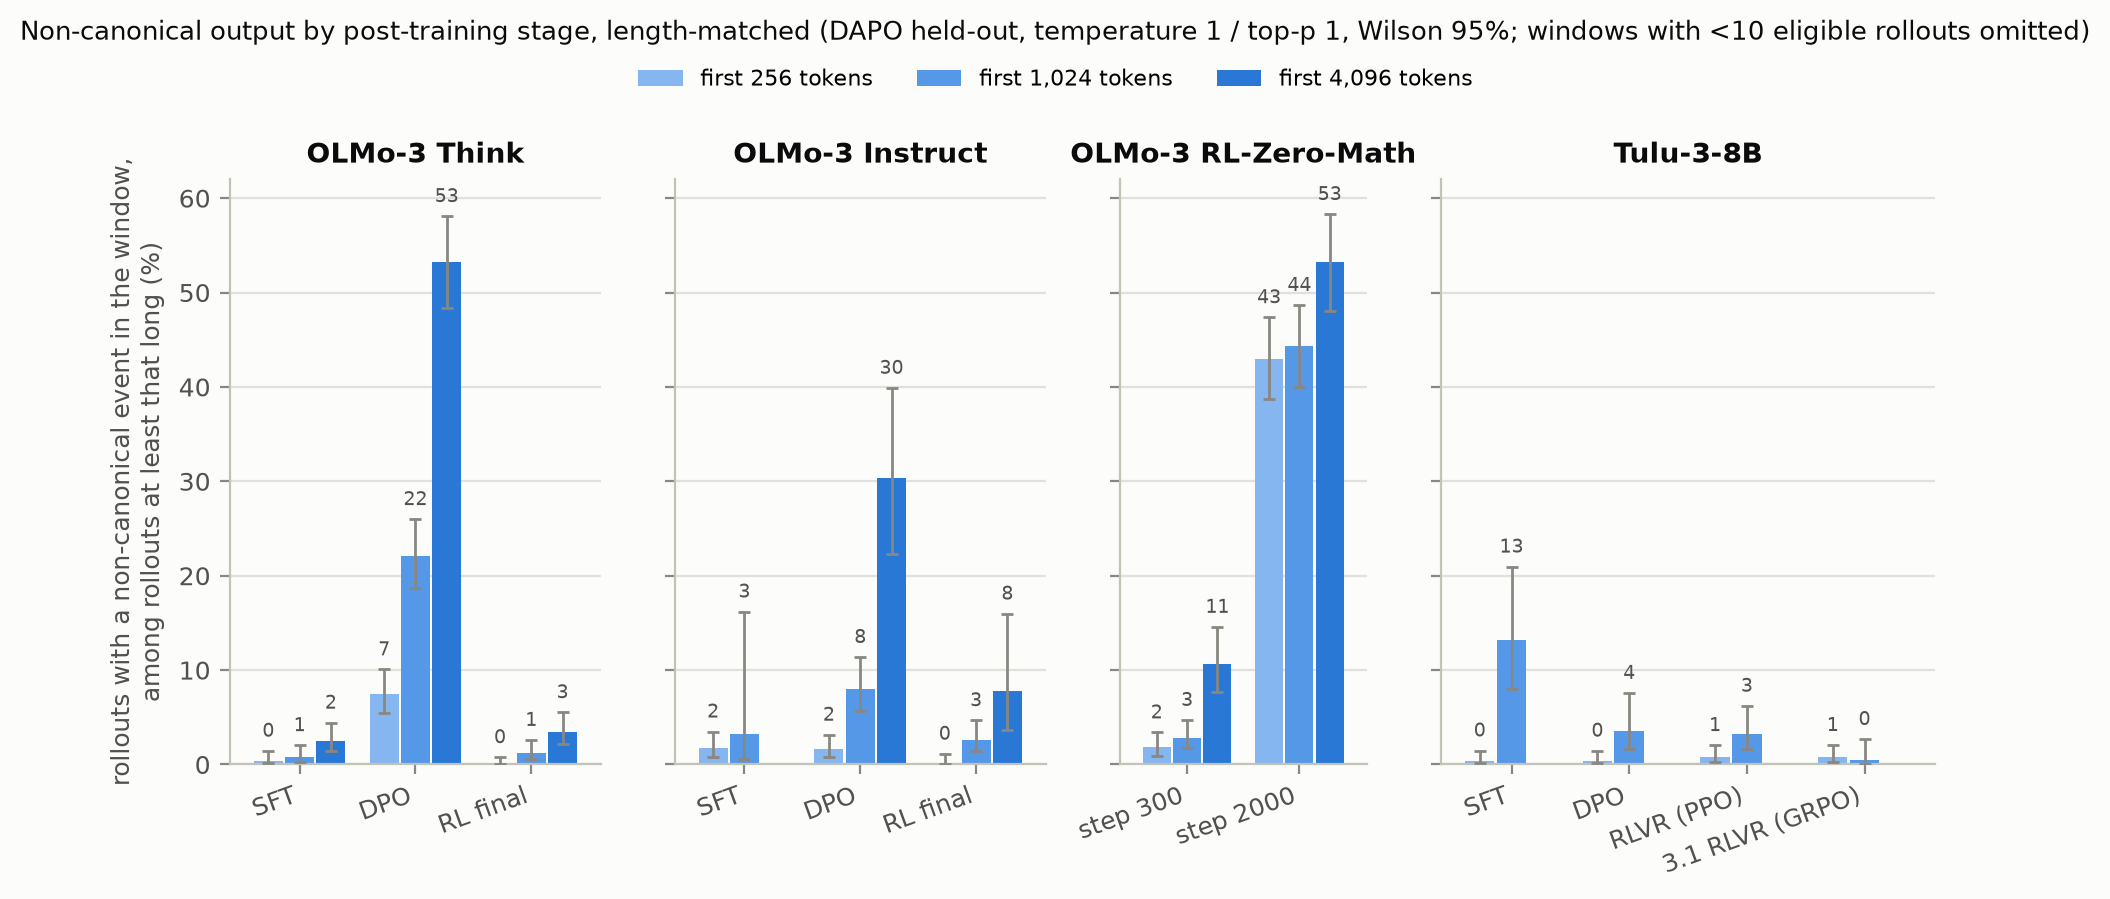
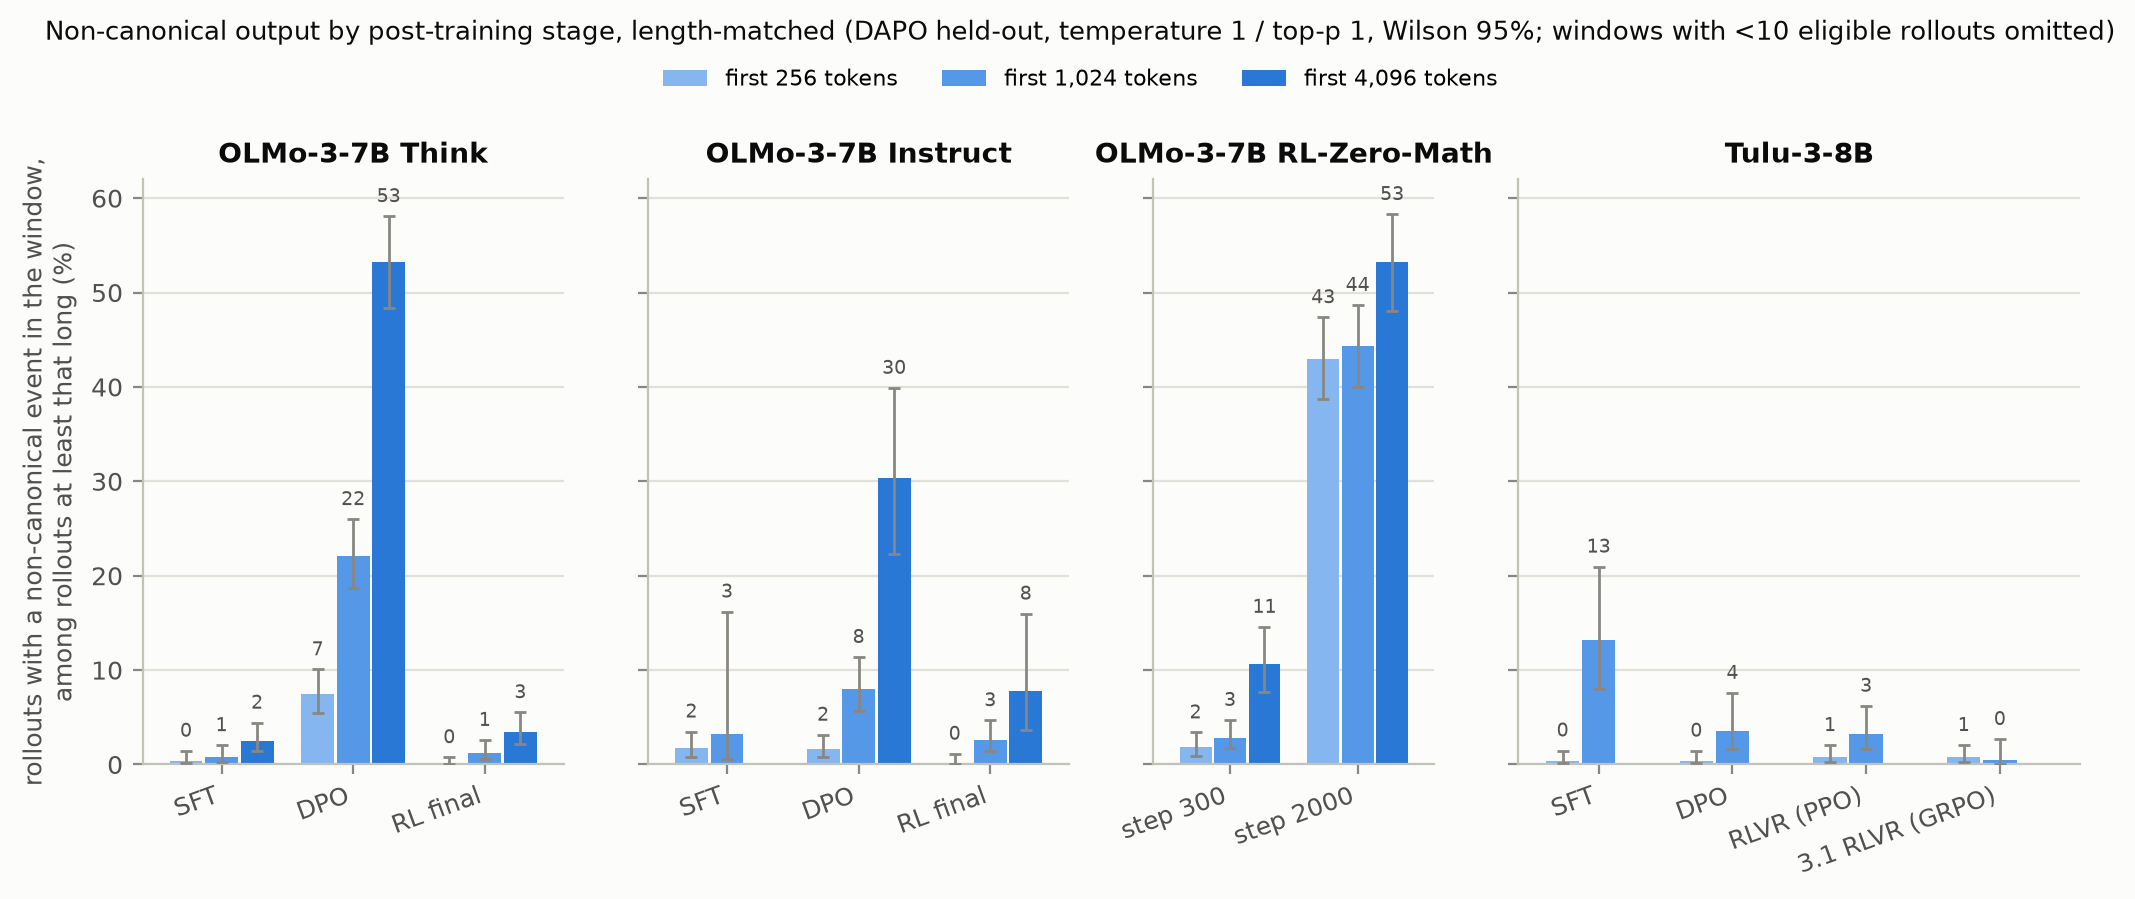
Model names: parameter count on every family (OLMo-3-7B Think / Instruct / RL-Zero-Math, Tulu-3-8B) in figures, examples and draft

diff --git a/scripts/figures.py b/scripts/figures.py
@@ -36,9 +36,9 @@ STAGE_COLOR = {"SFT": BLUE, "DPO": ORANGE, "RL final": AQUA, "RLVR (PPO)": AQUA,
 
 # (stage label, run holding the temperature-1 arm, run holding the recommended-settings arm)
 LADDERS = {
-    "OLMo-3 Think": [("SFT", "think-sft", None), ("DPO", "think-dpo", "think-dpo-recommended"), ("RL final", "think-main", "think-main-recommended")],
-    "OLMo-3 Instruct": [("SFT", "instruct-sft", "instruct-sft"), ("DPO", "instruct-dpo", "instruct-dpo"), ("RL final", "instruct-main", "instruct-main")],
-    "OLMo-3 RL-Zero-Math": [("step 300", "rlzero-math-step300", None), ("step 2000", "rlzero-math", None)],
+    "OLMo-3-7B Think": [("SFT", "think-sft", None), ("DPO", "think-dpo", "think-dpo-recommended"), ("RL final", "think-main", "think-main-recommended")],
+    "OLMo-3-7B Instruct": [("SFT", "instruct-sft", "instruct-sft"), ("DPO", "instruct-dpo", "instruct-dpo"), ("RL final", "instruct-main", "instruct-main")],
+    "OLMo-3-7B RL-Zero-Math": [("step 300", "rlzero-math-step300", None), ("step 2000", "rlzero-math", None)],
     "Tulu-3-8B": [("SFT", "tulu3-sft", "tulu3-sft"), ("DPO", "tulu3-dpo", "tulu3-dpo"), ("RLVR (PPO)", "tulu3-rlvr", "tulu3-rlvr"), ("3.1 RLVR (GRPO)", "tulu31-rlvr", "tulu31-rlvr")],
 }
 OLMO = {k: v for k, v in LADDERS.items() if k != "Tulu-3-8B"}
@@ -83,7 +83,7 @@ WINDOWS = [(256, "first 256 tokens"), (1024, "first 1,024 tokens"), (4096, "firs
 
 def fig1() -> None:
     widths = [len(v) for v in LADDERS.values()]
-    fig, axes = plt.subplots(1, 4, figsize=(11, 3.8), gridspec_kw={"width_ratios": widths}, sharey=True)
+    fig, axes = plt.subplots(1, 4, figsize=(12.5, 3.8), gridspec_kw={"width_ratios": widths}, sharey=True)
     DATA["fig1"] = {}
     for ax, (family, stages) in zip(axes, LADDERS.items()):
         xs = np.arange(len(stages))
@@ -189,7 +189,7 @@ def fig2() -> None:
     ax.set_ylabel("non-canonical events per million tokens")
     ax.set_ylim(0, 230)
     ax.legend(loc="upper left", ncol=2)
-    fig.suptitle("Olmo-3-7B-RL-Zero-Math over training (RL from the base model; DAPO held-out, temperature 1)", fontsize=10, color=INK, y=1.02)
+    fig.suptitle("OLMo-3-7B RL-Zero-Math over training (RL from the base model; DAPO held-out, temperature 1)", fontsize=10, color=INK, y=1.02)
     save(fig, "fig2_rlzero_steps.png")
 
 

diff --git a/scripts/random_examples.py b/scripts/random_examples.py
@@ -15,8 +15,8 @@ import json
 import random
 from pathlib import Path
 
-CELLS = [("OLMo-3 Think-DPO", "think-dpo"), ("OLMo-3 Think RL final", "think-main"),
-         ("OLMo-3 RL-Zero-Math step 2000", "rlzero-math"), ("OLMo-3 Instruct-DPO", "instruct-dpo")]
+CELLS = [("OLMo-3-7B Think-DPO", "think-dpo"), ("OLMo-3-7B Think RL final", "think-main"),
+         ("OLMo-3-7B RL-Zero-Math step 2000", "rlzero-math"), ("OLMo-3-7B Instruct-DPO", "instruct-dpo")]
 
 
 def show(tokens: list[str] | None) -> str:

diff --git a/WRITEUP_DRAFT.md b/WRITEUP_DRAFT.md
@@ -6,9 +6,9 @@
 
 A language model can emit a token sequence whose decoded text re-tokenizes differently: `light` + `house` where the tokenizer would produce `l` + `ighthouse`. These non-canonical tokens are invisible in a transcript stored as text, so a probe or logit lens run on the re-tokenized text is looking at positions the model never computed, and non-canonical inputs are a known jailbreak vector. I wanted to know how often modern models do this on an ordinary task, which post-training stage moves the rate, and how far the computation diverges afterwards.
 
-I sampled 500 held-out DAPO math problems (and AIME 2024/2025 for three checkpoints) from every released post-training checkpoint of OLMo-3-7B Think and Instruct (SFT, DPO, RL), from six RL steps of OLMo-3-7B-RL-Zero-Math (RL directly on the base model), and from the Tulu-3-8B ladder as a second tokenizer: 16 checkpoints, 75 million generated tokens, emitted ids kept and checked by `encode(decode(ids)) != ids`. The statistic is the fraction of rollouts with at least one non-canonical event (a span or an unfinished multi-byte character).
+I sampled 500 held-out DAPO math problems (and AIME 2024/2025 for three checkpoints) from every released post-training checkpoint of OLMo-3-7B Think and Instruct (SFT, DPO, RL), from six RL steps of OLMo-3-7B RL-Zero-Math (RL directly on the base model), and from the Tulu-3-8B ladder as a second tokenizer: 16 checkpoints, 75 million generated tokens, emitted ids kept and checked by `encode(decode(ids)) != ids`. The statistic is the fraction of rollouts with at least one non-canonical event (a span or an unfinished multi-byte character).
 
-**The answer to the title question.** For a shipped model it is a small problem: the OLMo-3 Think release has an event in 2% of its 9,000-token math rollouts at its recommended sampling settings, and 10% at temperature 1. For intermediate checkpoints it is not small: the DPO checkpoint before it has one in 15% of rollouts at recommended settings and 55% at temperature 1. When an event happens the damage is local. Teacher-forcing the same text as the emitted ids versus their canonical re-tokenization changes the next-token argmax at the span for 12–36% of spans and the two distributions agree again within about 16 tokens (Figure 4).
+**The answer to the title question.** For a shipped model it is a small problem: the OLMo-3-7B Think release has an event in 2% of its 9,000-token math rollouts at its recommended sampling settings, and 10% at temperature 1. For intermediate checkpoints it is not small: the DPO checkpoint before it has one in 15% of rollouts at recommended settings and 55% at temperature 1. When an event happens the damage is local. Teacher-forcing the same text as the emitted ids versus their canonical re-tokenization changes the next-token argmax at the span for 12–36% of spans and the two distributions agree again within about 16 tokens (Figure 4).
 
 **My pre-registered prediction was wrong.** I predicted SFT ≈ DPO < RL, because on-policy RL is the only stage whose loss is computed on the ids the model actually emitted. Instead DPO, which trains on canonical text, raised the flagged fraction from 12% to 55% (Think) and 3% to 21% (Instruct), and on-policy RL brought it back to 10% and 6% (Figure 1). More than half of DPO's excess in Think is one span shape, a standalone space emitted at probability near 1 followed by a tail token; excluding that shape and byte fragments, DPO still flags 23% of rollouts against 10% for SFT and RL.
 
@@ -30,18 +30,18 @@ Three events per cell drawn uniformly (seed 0) from every event the metric flagg
 
 | cell | preceding text | emitted tokens | canonical tokens | position |
 |---|---|---|---|--:|
-| OLMo-3 Think-DPO | `…通常，如果没有队的情` | `�` | (incomplete UTF-8 bytes, no text form) | 170 |
-| OLMo-3 Think-DPO | `…, the possible a's are integers such` | `isme` `aning` | `ism` `ean` `ing` | 1,420 |
-| OLMo-3 Think-DPO | `…: 1 + (exponent of` | `·` `rd` | `·rd` | 909 |
-| OLMo-3 Think RL final | `… wins by girls in those games, W` | `_g` `b` | `_gb` | 3,926 |
-| OLMo-3 Think RL final | `…Therefore substituting into Area_octagon:⏎⏎` | `Area` `oct` | `Are` `ao` `ct` | 5,518 |
-| OLMo-3 Think RL final | `… The image link is to a cdn` | `·art` `of` | `·ar` `to` `f` | 4,946 |
-| OLMo-3 RL-Zero-Math step 2000 | `… tag, in` | `·$` `($` | `·$($` | 3 |
-| OLMo-3 RL-Zero-Math step 2000 | `…}45= (2 + log_` | `3` `5` | `35` | 1,796 |
-| OLMo-3 RL-Zero-Math step 2000 | `…E(50/17,10).⏎⏎` | `Point` `F` | `PointF` | 11,399 |
-| OLMo-3 Instruct-DPO | `…) will rise from 0 up to` | `·half` `way` | `·halfway` | 13,165 |
-| OLMo-3 Instruct-DPO | `…!}{11(10!+11` | `!)` `}\` `)` | `!` `)}` `\)` | 1,523 |
-| OLMo-3 Instruct-DPO | `… out direction) and to \(A\)` | `·(` `_per` | `·(_` `per` | 529 |
+| OLMo-3-7B Think-DPO | `…通常，如果没有队的情` | `�` | (incomplete UTF-8 bytes, no text form) | 170 |
+| OLMo-3-7B Think-DPO | `…, the possible a's are integers such` | `isme` `aning` | `ism` `ean` `ing` | 1,420 |
+| OLMo-3-7B Think-DPO | `…: 1 + (exponent of` | `·` `rd` | `·rd` | 909 |
+| OLMo-3-7B Think RL final | `… wins by girls in those games, W` | `_g` `b` | `_gb` | 3,926 |
+| OLMo-3-7B Think RL final | `…Therefore substituting into Area_octagon:⏎⏎` | `Area` `oct` | `Are` `ao` `ct` | 5,518 |
+| OLMo-3-7B Think RL final | `… The image link is to a cdn` | `·art` `of` | `·ar` `to` `f` | 4,946 |
+| OLMo-3-7B RL-Zero-Math step 2000 | `… tag, in` | `·$` `($` | `·$($` | 3 |
+| OLMo-3-7B RL-Zero-Math step 2000 | `…}45= (2 + log_` | `3` `5` | `35` | 1,796 |
+| OLMo-3-7B RL-Zero-Math step 2000 | `…E(50/17,10).⏎⏎` | `Point` `F` | `PointF` | 11,399 |
+| OLMo-3-7B Instruct-DPO | `…) will rise from 0 up to` | `·half` `way` | `·halfway` | 13,165 |
+| OLMo-3-7B Instruct-DPO | `…!}{11(10!+11` | `!)` `}\` `)` | `!` `)}` `\)` | 1,523 |
+| OLMo-3-7B Instruct-DPO | `… out direction) and to \(A\)` | `·(` `_per` | `·(_` `per` | 529 |
 
 Most events are seams between ordinary tokens (`isme`+`aning`, `Area`+`oct`): the model picked a plausible segmentation of an uncommon word rather than sampling from the deep tail. The RL-Zero row at position 3 is the ` $($` habit discussed above. The OLMo-3 tokenizer has one-, two- and three-digit tokens, so digits can be non-canonical (`3`+`5` for `35`), which is the case that matters most for arithmetic probes. The Think-DPO byte fragment sits in a stretch of Chinese; DPO's byte fragments are mostly like that.
 
@@ -82,8 +82,8 @@ Figure 1 is the main result, length-matched. On whole rollouts at temperature 1 
 
 | family | SFT | DPO | RL final |
 |---|--:|--:|--:|
-| OLMo-3 Think | 11.8% | 55.0% | 10.2% |
-| OLMo-3 Instruct | 3.4% | 21.0% | 6.2% |
+| OLMo-3-7B Think | 11.8% | 55.0% | 10.2% |
+| OLMo-3-7B Instruct | 3.4% | 21.0% | 6.2% |
 
 In both tracks the DPO checkpoint flags far more rollouts than the SFT checkpoint before it (Fisher p = 7e-50 and 1e-18), and the on-policy RL checkpoint flags far fewer than DPO (p = 1e-54 and 6e-12), ending level with SFT in Think (p = 0.48) and slightly above it in Instruct (p = 0.053). Mean rollout length barely changes across the Think ladder (8.2k, 8.2k, 9.3k tokens), so this is not a length effect there. Instruct-SFT is a different case: its rollouts are short (538 tokens against 3.4k and 2.5k) and it mostly fails the task, so the Instruct SFT→DPO comparison is between a model that answers and one that does not, and the length-matched view cannot separate that gap from length.
 

diff --git a/figures/random_examples.md b/figures/random_examples.md
@@ -1,14 +1,14 @@
 | cell | preceding text | emitted tokens | canonical tokens | position |
 |---|---|---|---|--:|
-| OLMo-3 Think-DPO | `…通常，如果没有队的情` | `�` | (incomplete UTF-8 bytes, no text form) | 170 |
-| OLMo-3 Think-DPO | `…, the possible a's are integers such` | `isme` `aning` | `ism` `ean` `ing` | 1,420 |
-| OLMo-3 Think-DPO | `…: 1 + (exponent of` | `·` `rd` | `·rd` | 909 |
-| OLMo-3 Think RL final | `… wins by girls in those games, W` | `_g` `b` | `_gb` | 3,926 |
-| OLMo-3 Think RL final | `…Therefore substituting into Area_octagon:⏎⏎` | `Area` `oct` | `Are` `ao` `ct` | 5,518 |
-| OLMo-3 Think RL final | `… The image link is to a cdn` | `·art` `of` | `·ar` `to` `f` | 4,946 |
-| OLMo-3 RL-Zero-Math step 2000 | `… tag, in` | `·$` `($` | `·$($` | 3 |
-| OLMo-3 RL-Zero-Math step 2000 | `…}45= (2 + log_` | `3` `5` | `35` | 1,796 |
-| OLMo-3 RL-Zero-Math step 2000 | `…E(50/17,10).⏎⏎` | `Point` `F` | `PointF` | 11,399 |
-| OLMo-3 Instruct-DPO | `…) will rise from 0 up to` | `·half` `way` | `·halfway` | 13,165 |
-| OLMo-3 Instruct-DPO | `…!}{11(10!+11` | `!)` `}\` `)` | `!` `)}` `\)` | 1,523 |
-| OLMo-3 Instruct-DPO | `… out direction) and to \(A\)` | `·(` `_per` | `·(_` `per` | 529 |
+| OLMo-3-7B Think-DPO | `…通常，如果没有队的情` | `�` | (incomplete UTF-8 bytes, no text form) | 170 |
+| OLMo-3-7B Think-DPO | `…, the possible a's are integers such` | `isme` `aning` | `ism` `ean` `ing` | 1,420 |
+| OLMo-3-7B Think-DPO | `…: 1 + (exponent of` | `·` `rd` | `·rd` | 909 |
+| OLMo-3-7B Think RL final | `… wins by girls in those games, W` | `_g` `b` | `_gb` | 3,926 |
+| OLMo-3-7B Think RL final | `…Therefore substituting into Area_octagon:⏎⏎` | `Area` `oct` | `Are` `ao` `ct` | 5,518 |
+| OLMo-3-7B Think RL final | `… The image link is to a cdn` | `·art` `of` | `·ar` `to` `f` | 4,946 |
+| OLMo-3-7B RL-Zero-Math step 2000 | `… tag, in` | `·$` `($` | `·$($` | 3 |
+| OLMo-3-7B RL-Zero-Math step 2000 | `…}45= (2 + log_` | `3` `5` | `35` | 1,796 |
+| OLMo-3-7B RL-Zero-Math step 2000 | `…E(50/17,10).⏎⏎` | `Point` `F` | `PointF` | 11,399 |
+| OLMo-3-7B Instruct-DPO | `…) will rise from 0 up to` | `·half` `way` | `·halfway` | 13,165 |
+| OLMo-3-7B Instruct-DPO | `…!}{11(10!+11` | `!)` `}\` `)` | `!` `)}` `\)` | 1,523 |
+| OLMo-3-7B Instruct-DPO | `… out direction) and to \(A\)` | `·(` `_per` | `·(_` `per` | 529 |
